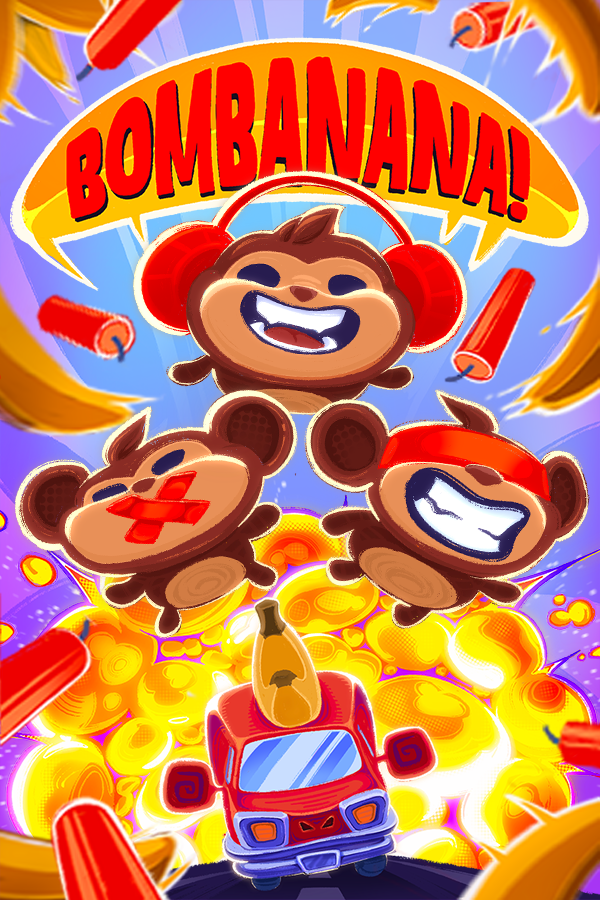
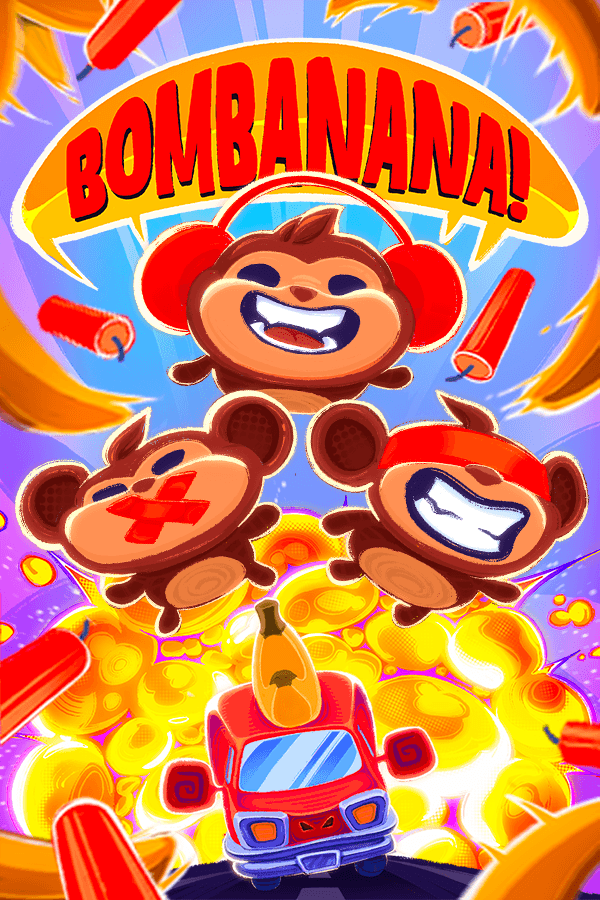
Updates

diff --git a/index.html b/index.html
@@ -1,1 +1,1 @@
-<!doctype html><html lang="en"><head><meta charset="utf-8"/><link rel="icon" href="/cantinhodogueimer/favicon.ico"/><meta name="viewport" content="width=device-width,initial-scale=1"/><meta name="theme-color" content="#000000"/><meta name="description" content="Web site created using create-react-app"/><link rel="apple-touch-icon" href="/cantinhodogueimer/logo192.png"/><link rel="manifest" href="/cantinhodogueimer/manifest.json"/><title>Cantinho do Gueimer</title><script defer="defer" src="/cantinhodogueimer/static/js/main.ffc04100.js"></script><link href="/cantinhodogueimer/static/css/main.7e2b01d8.css" rel="stylesheet"></head><body><noscript>You need to enable JavaScript to run this app.</noscript><div id="root"></div></body></html>
+<!doctype html><html lang="en"><head><meta charset="utf-8"/><link rel="icon" href="/cantinhodogueimer/favicon.ico"/><meta name="viewport" content="width=device-width,initial-scale=1"/><meta name="theme-color" content="#000000"/><meta name="description" content="Web site created using create-react-app"/><link rel="apple-touch-icon" href="/cantinhodogueimer/logo192.png"/><link rel="manifest" href="/cantinhodogueimer/manifest.json"/><title>Cantinho do Gueimer</title><script defer="defer" src="/cantinhodogueimer/static/js/main.104182a3.js"></script><link href="/cantinhodogueimer/static/css/main.7e2b01d8.css" rel="stylesheet"></head><body><noscript>You need to enable JavaScript to run this app.</noscript><div id="root"></div></body></html>